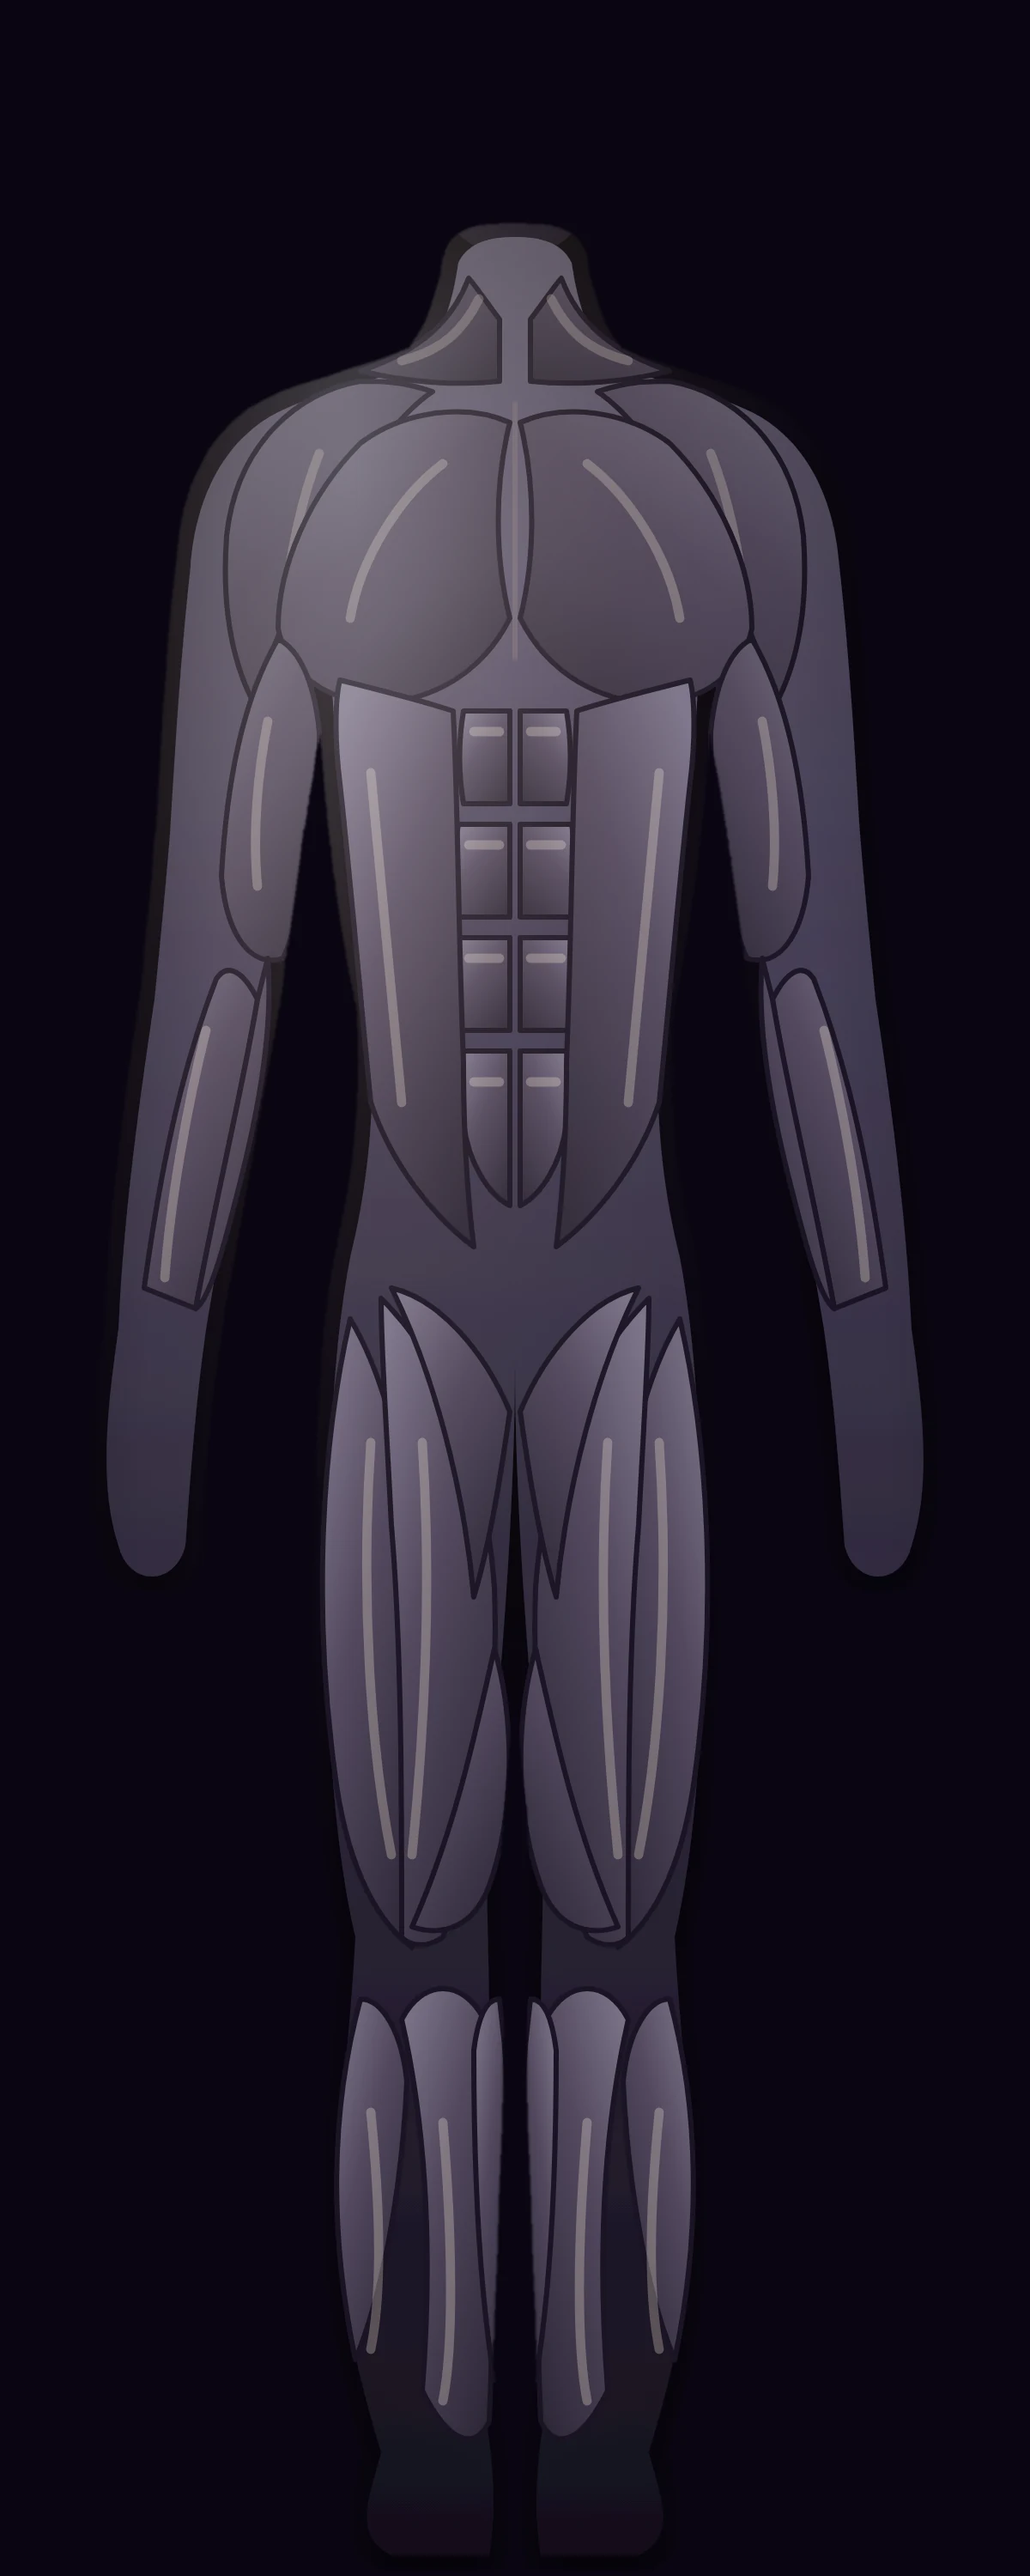
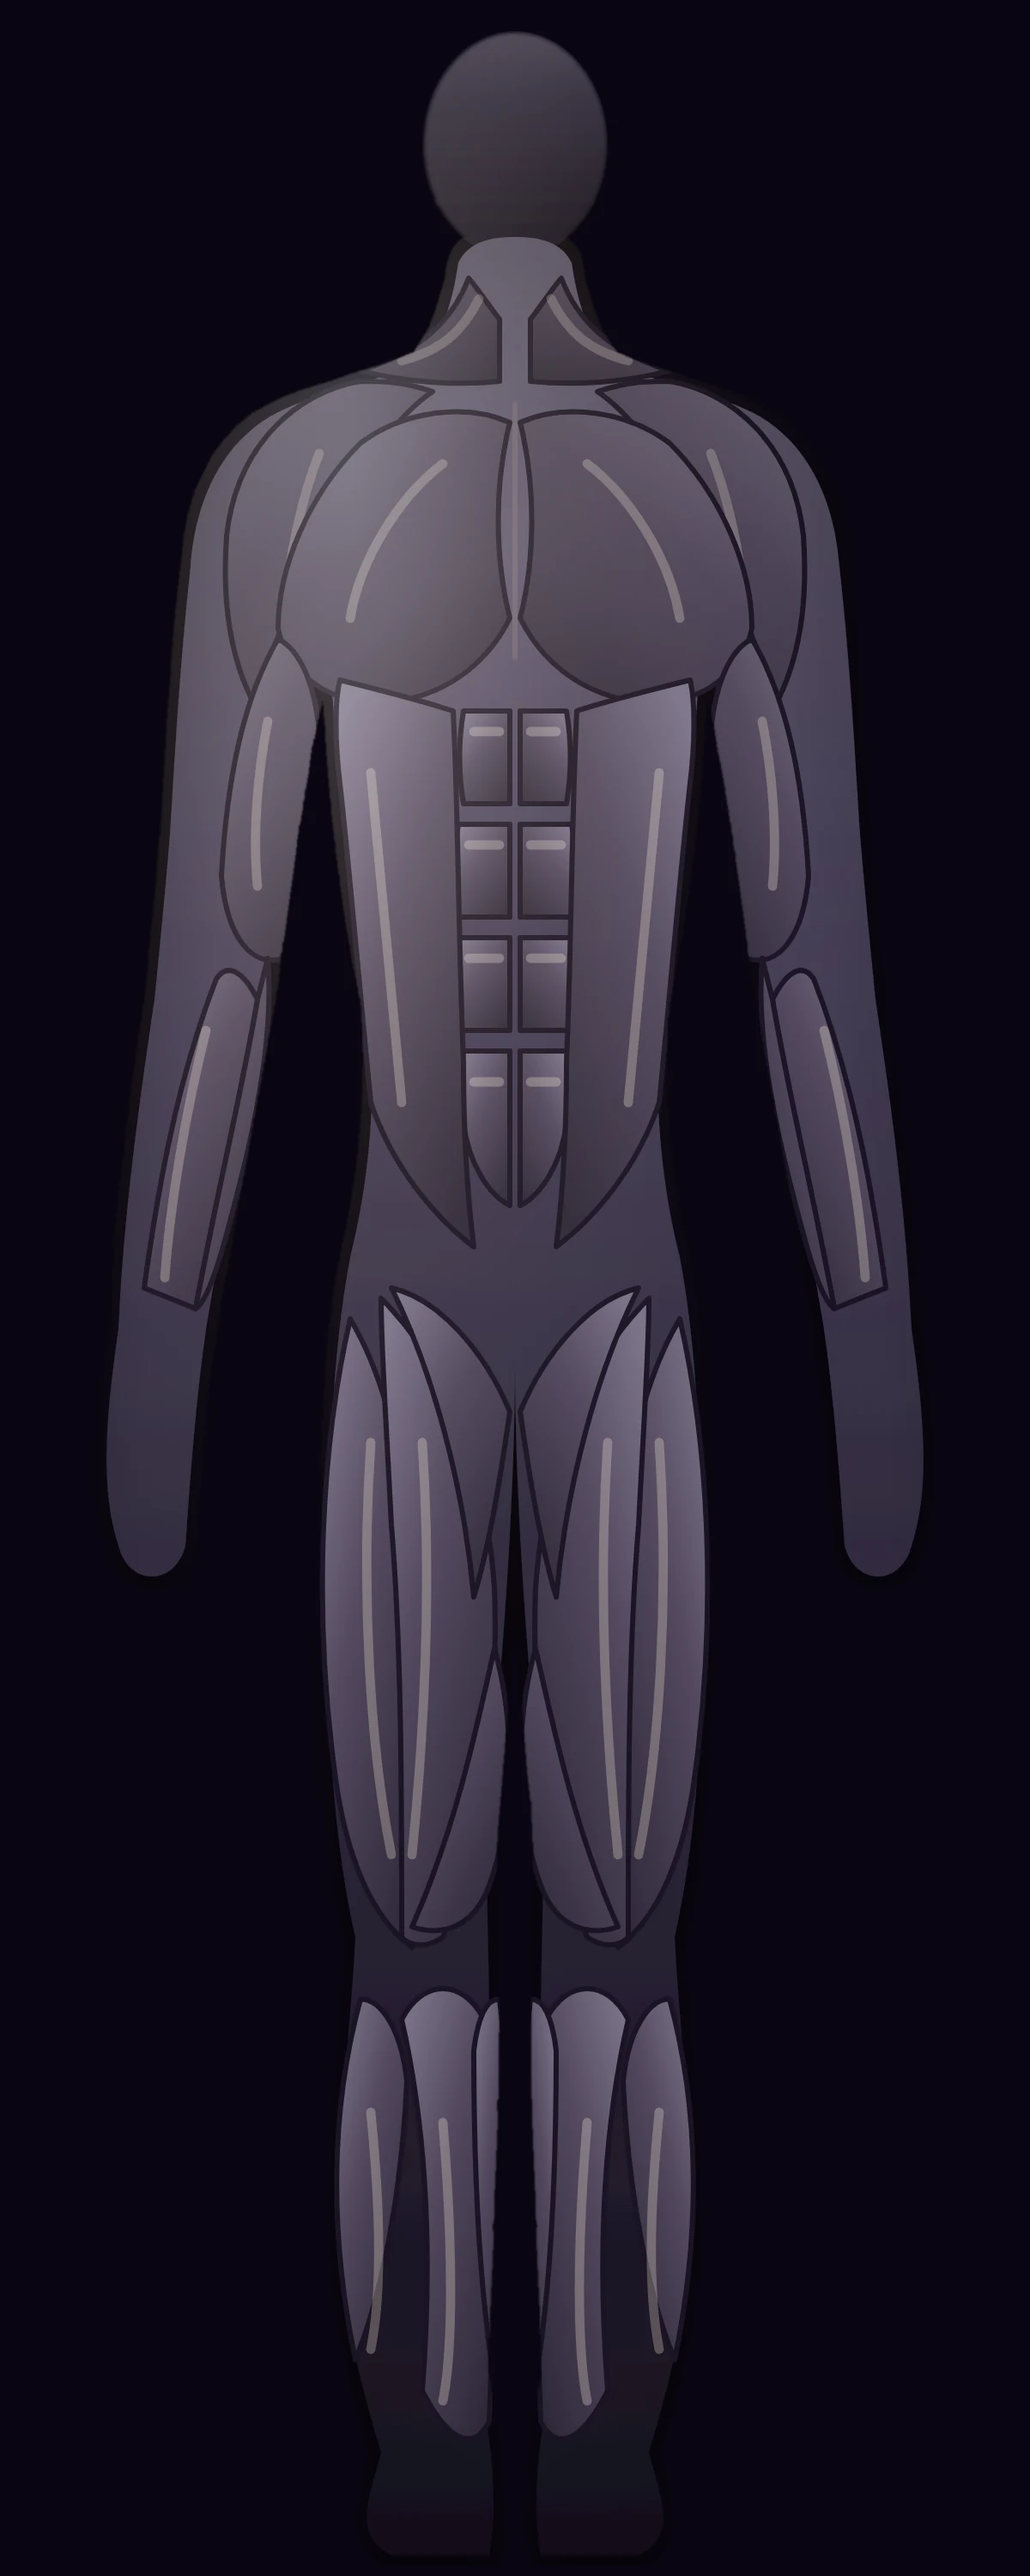
v14: muscle bases with heads (v3b)
Swap A/C front+back for 相片大師 v3b (heads inside slim-old
frame). SVG paths unchanged. SW cache gym-everyday-v14.

diff --git a/index.html b/index.html
@@ -4,7 +4,7 @@
     <meta charset="UTF-8" />
     <meta name="viewport" content="width=device-width, initial-scale=1.0, viewport-fit=cover" />
     <meta name="theme-color" content="#0a0614" />
-    <meta name="gym-build" content="v13-option3-aligned-bases" />
+    <meta name="gym-build" content="v14-muscle-heads" />
     <meta name="description" content="Gym Everyday — gym everyday, gym today. Log sets, see muscles, strength levels and monthly grind." />
     <link rel="icon" type="image/png" sizes="512x512" href="./icon-512.png" />
     <link rel="icon" type="image/svg+xml" href="./icon.svg" />

diff --git a/public/sw.js b/public/sw.js
@@ -1,5 +1,5 @@
 // Simple offline cache. Network first for pages, cache first for files.
-const CACHE = 'gym-everyday-v13'; // bump this on each release so old caches are dropped
+const CACHE = 'gym-everyday-v14'; // bump this on each release so old caches are dropped
 self.addEventListener('install', (e) => {
   self.skipWaiting();
   e.waitUntil(caches.open(CACHE).then((c) => c.addAll([
